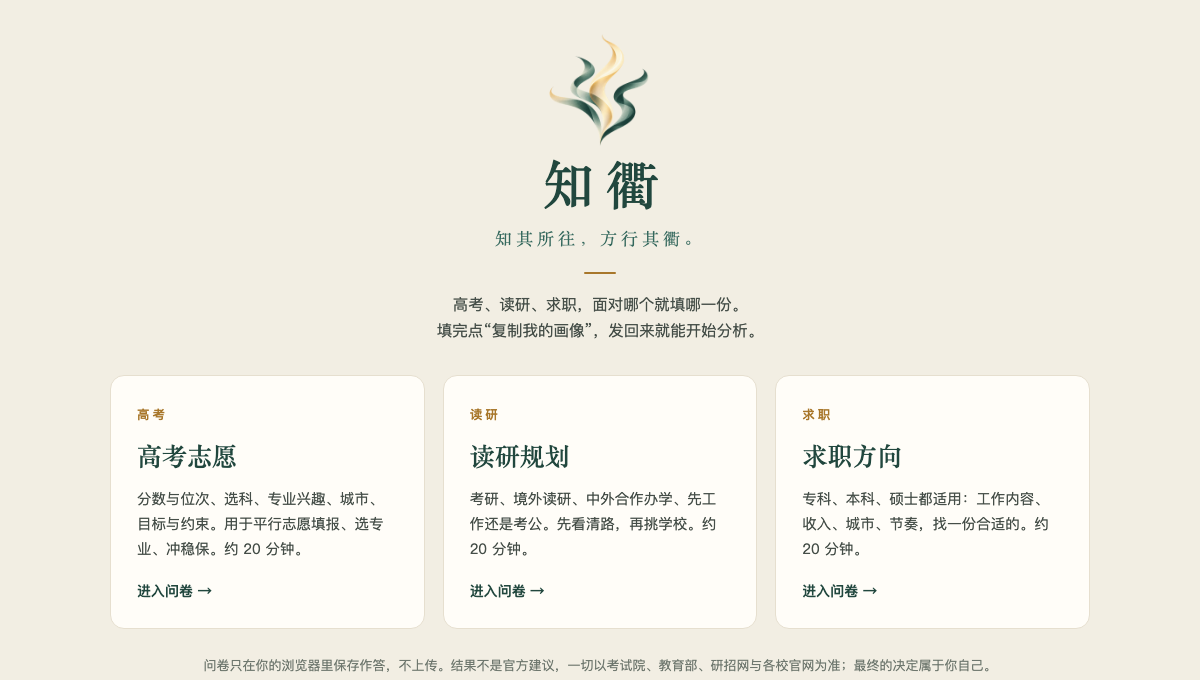
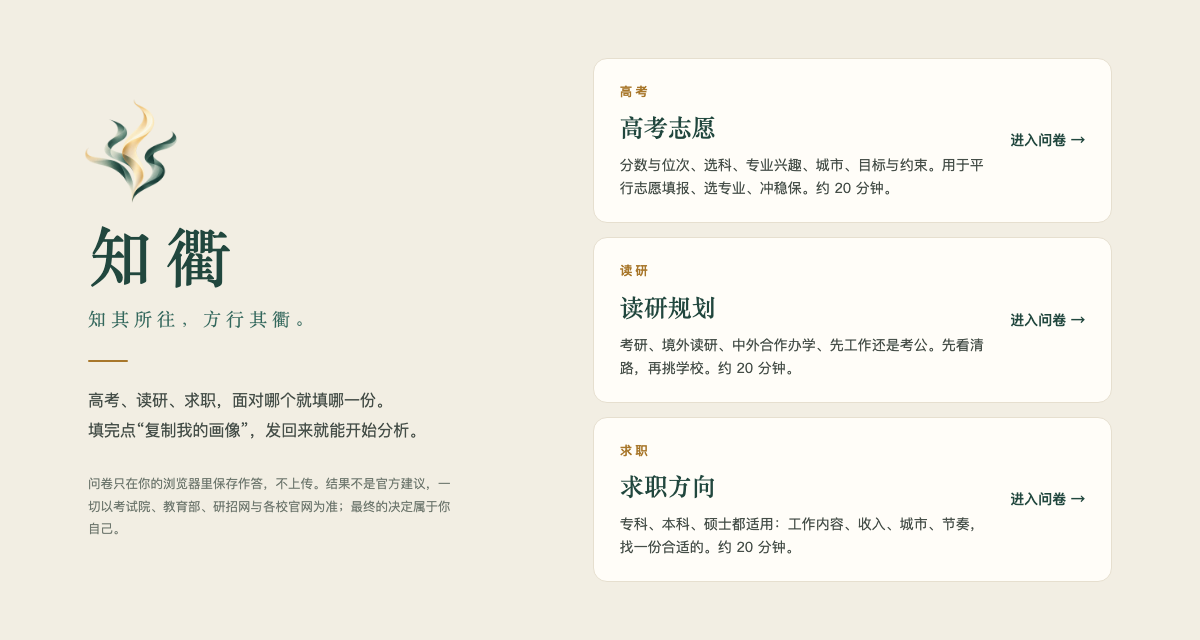
Entry page: two-column layout, brand left and questionnaires right

diff --git a/assets/questionnaire.css b/assets/questionnaire.css
@@ -149,24 +149,49 @@ textarea{resize:vertical;min-height:84px;}
 .choice p{margin:0 0 18px;font-size:14.5px;line-height:1.7;color:var(--ink-soft);flex:1;}
 .choice .c-go{font-size:14px;font-weight:600;color:var(--green-deep);}
 
-/* 入口页：一屏居中，不滚动 */
+/* 入口页：左品牌、右问卷，一屏居中；手机上下排列，可滚动 */
 .landing{min-height:100vh;min-height:100dvh;display:flex;align-items:center;justify-content:center;}
-.landing-wrap{width:100%;max-width:1060px;padding:clamp(20px,5vh,56px) 40px;}
-.landing .hero{text-align:center;overflow:visible;padding:0;}
-.landing .hero-logo{display:block;width:112px;height:112px;margin:0 auto 6px;}
-.landing .brand-title{font-size:52px;letter-spacing:12px;margin:0 0 10px;padding-left:12px;}
-.landing .motto{margin:0 0 18px;}
-.landing .motto::after{content:'';display:block;width:32px;height:2px;margin:18px auto 0;border-radius:2px;background:var(--amber);}
-.landing .hero .tag{margin:0 auto;}
-.landing .choices{margin:clamp(24px,4.5vh,44px) 0 0;}
-.landing .vow{text-align:center;margin-top:clamp(16px,3.5vh,32px);border-top:0;padding-top:0;}
-@media (max-width:860px){.choices{grid-template-columns:1fr;}.landing .choices{gap:12px;margin-top:28px;}}
+.landing-wrap{width:100%;max-width:1120px;padding:clamp(24px,6vh,64px) 48px;}
+.split{display:grid;grid-template-columns:minmax(0,5fr) minmax(0,6fr);gap:clamp(40px,6vw,88px);align-items:center;}
+.landing .hero{padding:0;overflow:visible;}
+.landing .hero-logo{display:block;width:104px;height:104px;margin:0 0 18px -8px;}
+.landing .brand-title{font-size:64px;letter-spacing:14px;line-height:1.05;margin:0 0 14px;}
+.landing .motto{font-size:18px;letter-spacing:5px;margin:0;}
+.landing .motto::after{content:'';display:block;width:40px;height:2px;margin:26px 0 24px;border-radius:2px;background:var(--amber);}
+.landing .hero .tag{font-size:16px;line-height:1.85;margin:0;max-width:none;}
+.landing .vow{margin:28px 0 0;padding:0;border:0;font-size:12.5px;line-height:1.8;max-width:30em;text-wrap:pretty;}
+.landing .choices{display:flex;flex-direction:column;gap:14px;margin:0;}
+.landing .choice{display:grid;grid-template-columns:1fr auto;grid-template-areas:"eb go" "h2 go" "p go";column-gap:24px;align-items:center;padding:22px 26px;}
+.landing .choice .c-eyebrow{grid-area:eb;margin:0 0 4px;}
+.landing .choice h2{grid-area:h2;font-size:24px;margin:0 0 6px;}
+.landing .choice p:not(.c-eyebrow){grid-area:p;margin:0;font-size:14px;line-height:1.65;}
+.landing .choice .c-go{grid-area:go;white-space:nowrap;}
+@media (min-width:1600px) and (min-height:900px){
+  .landing-wrap{max-width:1360px;}
+  .landing .hero-logo{width:128px;height:128px;}
+  .landing .brand-title{font-size:80px;letter-spacing:18px;}
+  .landing .motto{font-size:21px;}
+  .landing .hero .tag{font-size:18px;}
+  .landing .vow{font-size:13.5px;}
+  .landing .choices{gap:18px;}
+  .landing .choice{padding:30px 34px;}
+  .landing .choice h2{font-size:28px;}
+  .landing .choice p:not(.c-eyebrow){font-size:15.5px;}
+}
+@media (max-width:900px){
+  .split{grid-template-columns:1fr;gap:32px;}
+  .landing .hero{text-align:center;}
+  .landing .hero-logo{margin:0 auto 12px;}
+  .landing .motto::after{margin:20px auto 18px;}
+  .landing .vow{margin:20px auto 0;}
+}
 @media (max-width:560px){
   .landing-wrap{padding:40px 16px 32px;}
-  .landing .choice{padding:22px 20px 20px;}
-  .landing .hero-logo{width:88px;height:88px;margin-bottom:8px;}
-  .landing .brand-title{font-size:40px;letter-spacing:8px;padding-left:8px;}
-  .landing .vow{font-size:12px;margin-top:22px;}
+  .landing .hero-logo{width:88px;height:88px;}
+  .landing .brand-title{font-size:44px;letter-spacing:10px;padding-left:10px;}
+  .landing .hero .tag{font-size:15px;}
+  .landing .choice{grid-template-columns:1fr;grid-template-areas:"eb" "h2" "p" "go";padding:20px;}
+  .landing .choice .c-go{margin-top:12px;}
 }
 @media (max-width:560px){
   body{font-size:15.5px;}

diff --git a/index.html b/index.html
@@ -5,17 +5,19 @@
 <meta name="viewport" content="width=device-width, initial-scale=1.0">
 <title>知衢 · 升学自我盘点</title>
 <link rel="icon" type="image/png" href="assets/logo-192.png">
-<link rel="stylesheet" href="assets/questionnaire.css?v=20261019g">
+<link rel="stylesheet" href="assets/questionnaire.css?v=20261019h">
 </head>
 <body class="landing">
 
 <main class="landing-wrap">
-  <div class="hero">
-    <img class="hero-logo" src="assets/logo.png" alt="" width="112" height="112">
-    <h1 class="brand-title">知衢</h1>
-    <p class="motto">知其所往，方行其衢。</p>
-    <p class="tag">高考、读研、求职，面对哪个就填哪一份。<br>填完点“复制我的画像”，发回来就能开始分析。</p>
-  </div>
+  <div class="split">
+    <section class="hero">
+      <img class="hero-logo" src="assets/logo.png" alt="" width="104" height="104">
+      <h1 class="brand-title">知衢</h1>
+      <p class="motto">知其所往，方行其衢。</p>
+      <p class="tag">高考、读研、求职，面对哪个就填哪一份。<br>填完点“复制我的画像”，发回来就能开始分析。</p>
+      <p class="vow">问卷只在你的浏览器里保存作答，不上传。结果不是官方建议，一切以考试院、教育部、研招网与各校官网为准；最终的决定属于你自己。</p>
+    </section>
 
   <div class="choices">
     <a class="choice" href="gaokao.html">
@@ -37,9 +39,6 @@
       <span class="c-go">进入问卷 →</span>
     </a>
   </div>
-
-  <div class="vow">
-    问卷只在你的浏览器里保存作答，不上传。结果不是官方建议，一切以考试院、教育部、研招网与各校官网为准；最终的决定属于你自己。
   </div>
 </main>
 </body>

diff --git a/gaokao.html b/gaokao.html
@@ -6,7 +6,7 @@
 <title>高考志愿 · 自我盘点</title>
 <script src="https://cdn.jsdelivr.net/npm/lunar-javascript@1.7.7/lunar.js" defer></script>
 <link rel="icon" type="image/png" href="assets/logo-192.png">
-<link rel="stylesheet" href="assets/questionnaire.css?v=20261019g">
+<link rel="stylesheet" href="assets/questionnaire.css?v=20261019h">
 </head>
 <body data-profile-kind="gaokao">
 
@@ -907,8 +907,8 @@
   </div>
 </div>
 
-<script src="assets/profile-recipient.js?v=20261019g"></script>
-<script src="assets/questionnaire.js?v=20261019g"></script>
+<script src="assets/profile-recipient.js?v=20261019h"></script>
+<script src="assets/questionnaire.js?v=20261019h"></script>
 <script>
   function updateBaziPreview(){
     var el=document.getElementById('baziPreview'); if(!el) return;

diff --git a/career.html b/career.html
@@ -6,7 +6,7 @@
 <title>求职 · 自我盘点</title>
 <script src="https://cdn.jsdelivr.net/npm/lunar-javascript@1.7.7/lunar.js" defer></script>
 <link rel="icon" type="image/png" href="assets/logo-192.png">
-<link rel="stylesheet" href="assets/questionnaire.css?v=20261019g">
+<link rel="stylesheet" href="assets/questionnaire.css?v=20261019h">
 </head>
 <body data-profile-kind="career">
 
@@ -818,8 +818,8 @@
   </div>
 </div>
 
-<script src="assets/profile-recipient.js?v=20261019g"></script>
-<script src="assets/questionnaire.js?v=20261019g"></script>
+<script src="assets/profile-recipient.js?v=20261019h"></script>
+<script src="assets/questionnaire.js?v=20261019h"></script>
 <script>
   function updateBaziPreview(){
     var el=document.getElementById('baziPreview'); if(!el) return;

diff --git a/grad.html b/grad.html
@@ -6,7 +6,7 @@
 <title>读研 · 自我盘点</title>
 <script src="https://cdn.jsdelivr.net/npm/lunar-javascript@1.7.7/lunar.js" defer></script>
 <link rel="icon" type="image/png" href="assets/logo-192.png">
-<link rel="stylesheet" href="assets/questionnaire.css?v=20261019g">
+<link rel="stylesheet" href="assets/questionnaire.css?v=20261019h">
 </head>
 <body data-profile-kind="grad">
 
@@ -899,8 +899,8 @@
   </div>
 </div>
 
-<script src="assets/profile-recipient.js?v=20261019g"></script>
-<script src="assets/questionnaire.js?v=20261019g"></script>
+<script src="assets/profile-recipient.js?v=20261019h"></script>
+<script src="assets/questionnaire.js?v=20261019h"></script>
 <script>
   function updateBaziPreview(){
     var el=document.getElementById('baziPreview'); if(!el) return;
